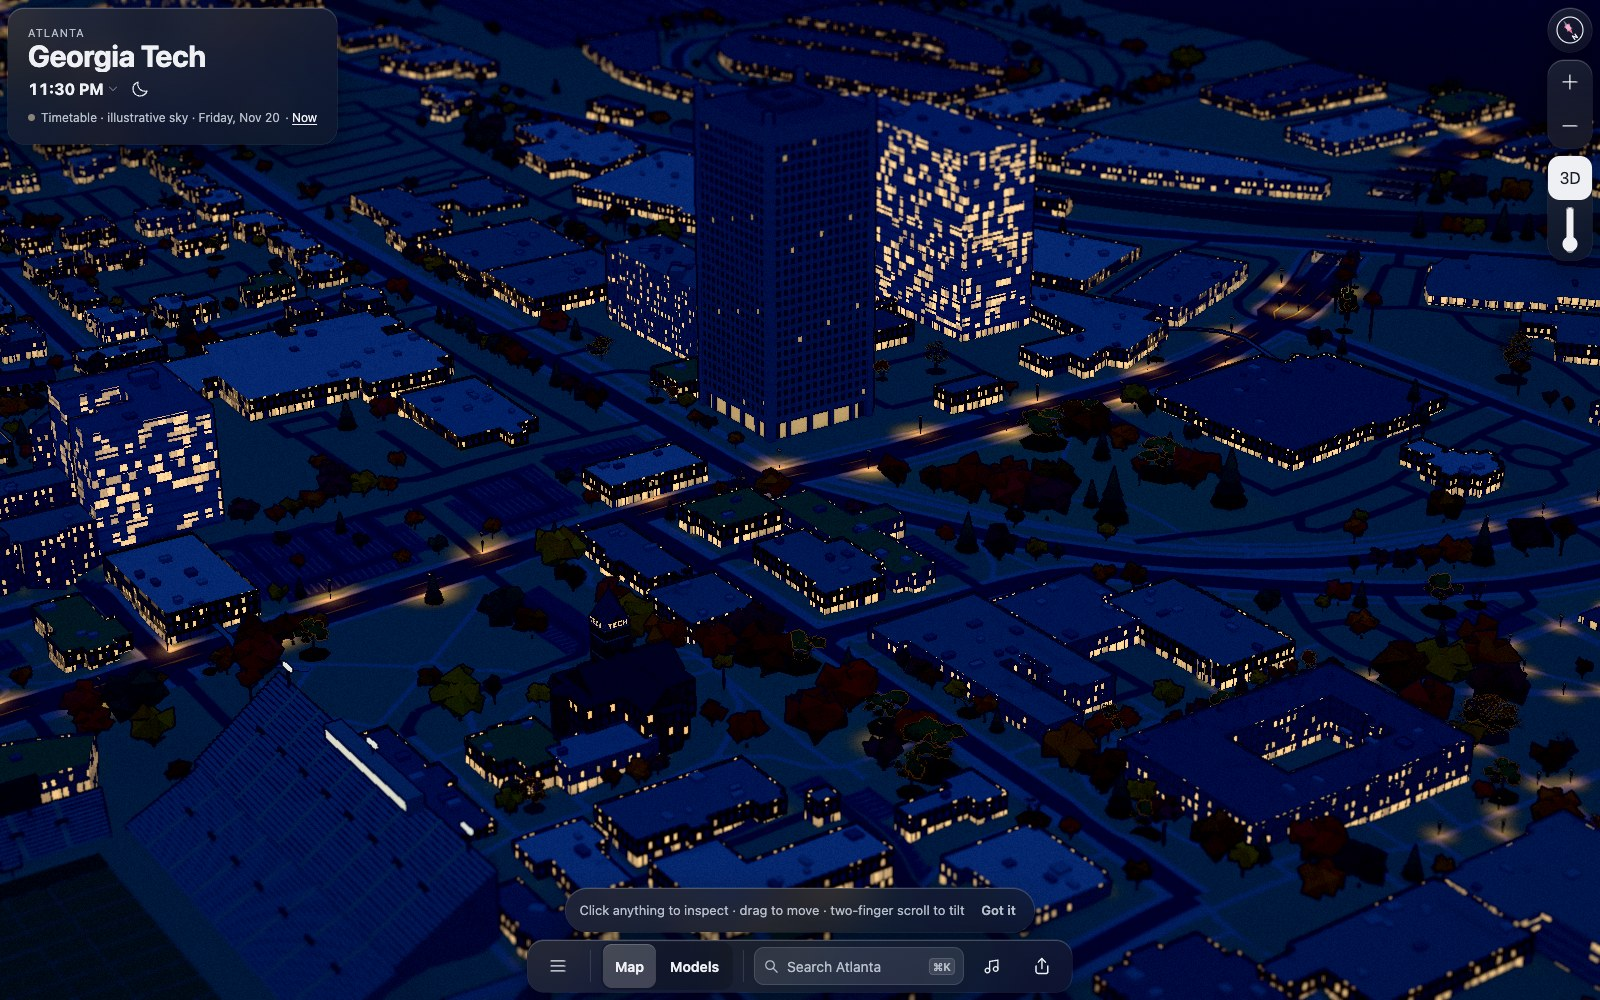
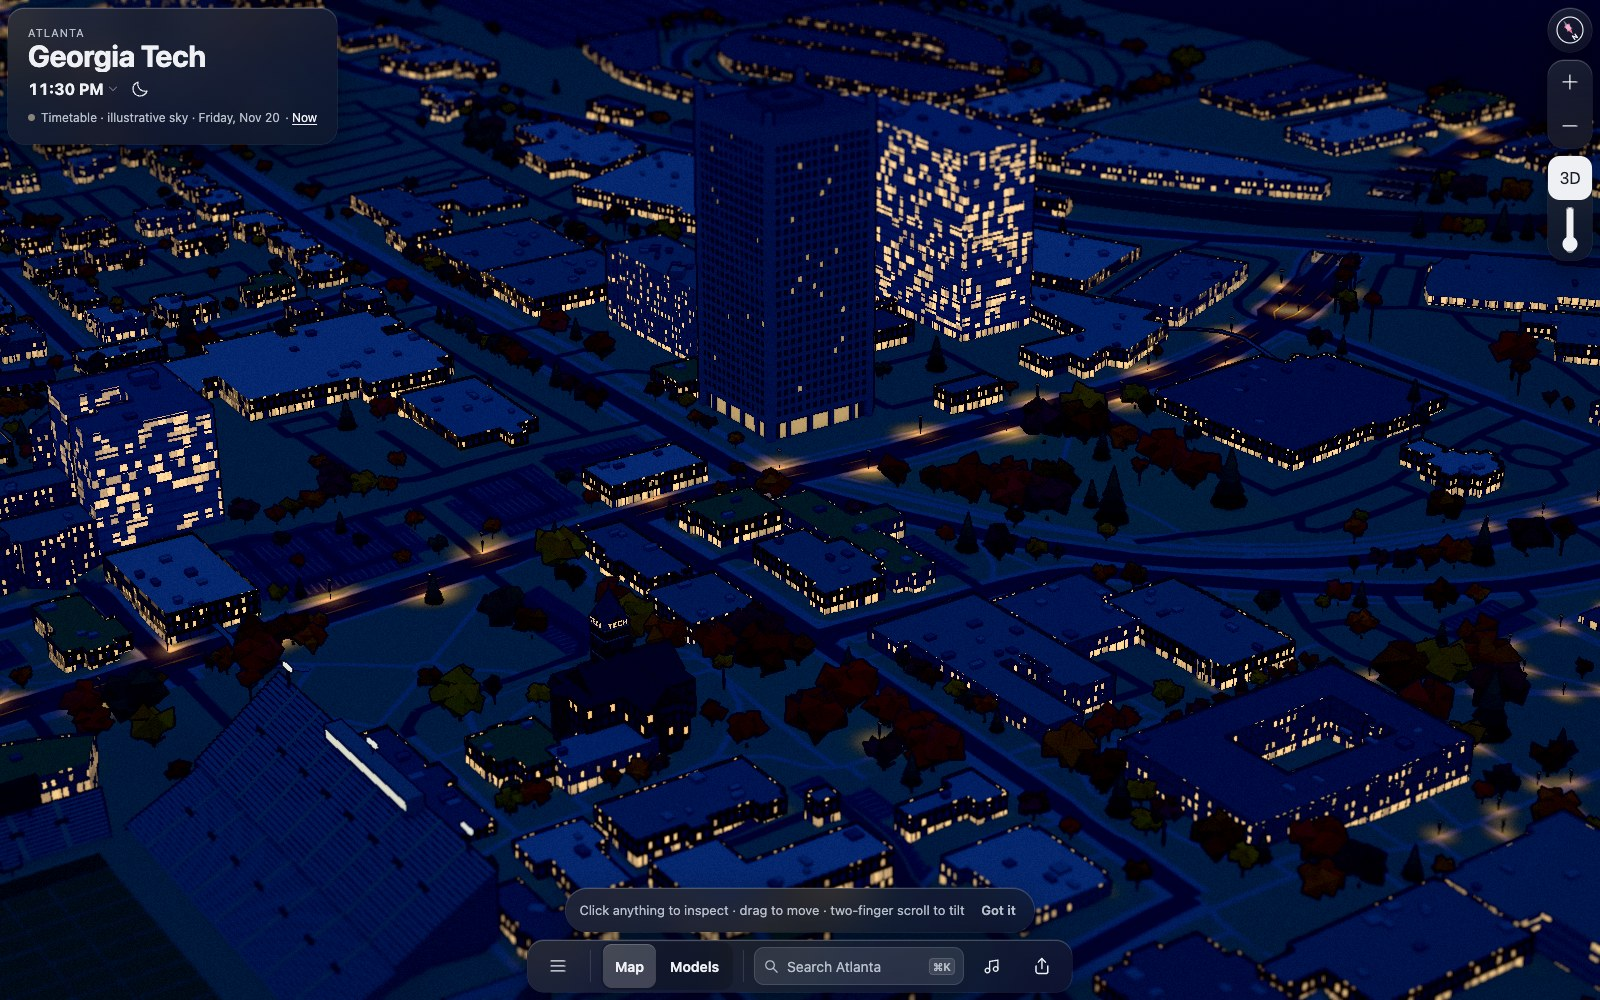
Light One Coca-Cola Plaza's offices with skin-kit litHash

diff --git a/web/src/city/one-coca-cola-plaza.ts b/web/src/city/one-coca-cola-plaza.ts
@@ -2,6 +2,7 @@ import type { GroundGrid } from '../terrain/grid';
 import type { P2 } from '../vignette/geom';
 import type { VBuilding } from '../vignette/world';
 import { landmarkShell } from './landmark-shell';
+import { litHash, seedOf } from './skin-kit';
 
 export const oneCocaColaId = 'osm:way:536717630';
 
@@ -23,6 +24,7 @@ export function createOneCocaColaPlaza(buildings: VBuilding[], site: VBuilding, 
 
   // Lidar (April 2019): roof p50 116.0, p95 122.8, max 125.2 m above grade.
   const grade = s.base + 0.35;
+  const seed = seedOf(site.id);
   const half = 23.6, pier = 2.9;
   const lobbyTop = grade + 7.2,
     firstFloor = lobbyTop + 0.9,
@@ -64,7 +66,8 @@ export function createOneCocaColaPlaza(buildings: VBuilding[], site: VBuilding, 
   ];
   faces.forEach(([a, b], f) => {
     const dx = b[0] - a[0], dz = b[1] - a[1], len = Math.hypot(dx, dz);
-    // Outward normal: the loop runs counter-clockwise in (x, z).
+    // Outward normal: the loop runs counter-clockwise in (x, z). The eggcrate
+    // draws only lit panes over its glass box, so it uses litHash, not litFacade.
     const nx = dz / len, nz = -dx / len;
     const at = (t: number, y: number, out: number) =>
       [a[0] + t * dx + nx * out, y, a[1] + t * dz + nz * out];
@@ -82,7 +85,7 @@ export function createOneCocaColaPlaza(buildings: VBuilding[], site: VBuilding, 
       quad(t0, t1, y, y + 1.55, 0, precast);
       for (let i = 0; i < bays; i++) {
         // Offices: a sparse, stable set of late workers and cleaning crews.
-        if ((j * 31 + i * 17 + f * 43) % 37 !== 0) continue;
+        if (litHash(seed, f, j, i) >= 0.03) continue;
         quad(t0 + i * w + mullion, t0 + (i + 1) * w - mullion, y + 1.55, y + pitch, -0.55, glass, true);
       }
     }

diff --git a/docs/log/ui/one-coca-cola-plaza/README.md b/docs/log/ui/one-coca-cola-plaza/README.md
@@ -19,7 +19,7 @@ The facade is cream precast in a deep eggcrate grid. Each face has 13 window bay
 
 ## Lighting
 
-No full-night exterior of this tower was available. The 2011 anniversary projection (AJC, Adweek) was a one-off event and is not ordinary lighting. The night view uses office occupancy: a sparse, stable set of warm panes (about 3% of windows), a warm lobby behind the recessed glass and a dark crown. The lit red signs are omitted with the logos.
+No full-night exterior of this tower was available. The 2011 anniversary projection (AJC, Adweek) was a one-off event and is not ordinary lighting. The night view uses office occupancy: a sparse, stable set of warm panes (about 3% of windows, from skin-kit `litHash`; the first version's linear rule stacked them on diagonals, see [before and after](night-before-after.jpg)), a warm lobby behind the recessed glass and a dark crown. The lit red signs are omitted with the logos.
 
 ## Captures
 
